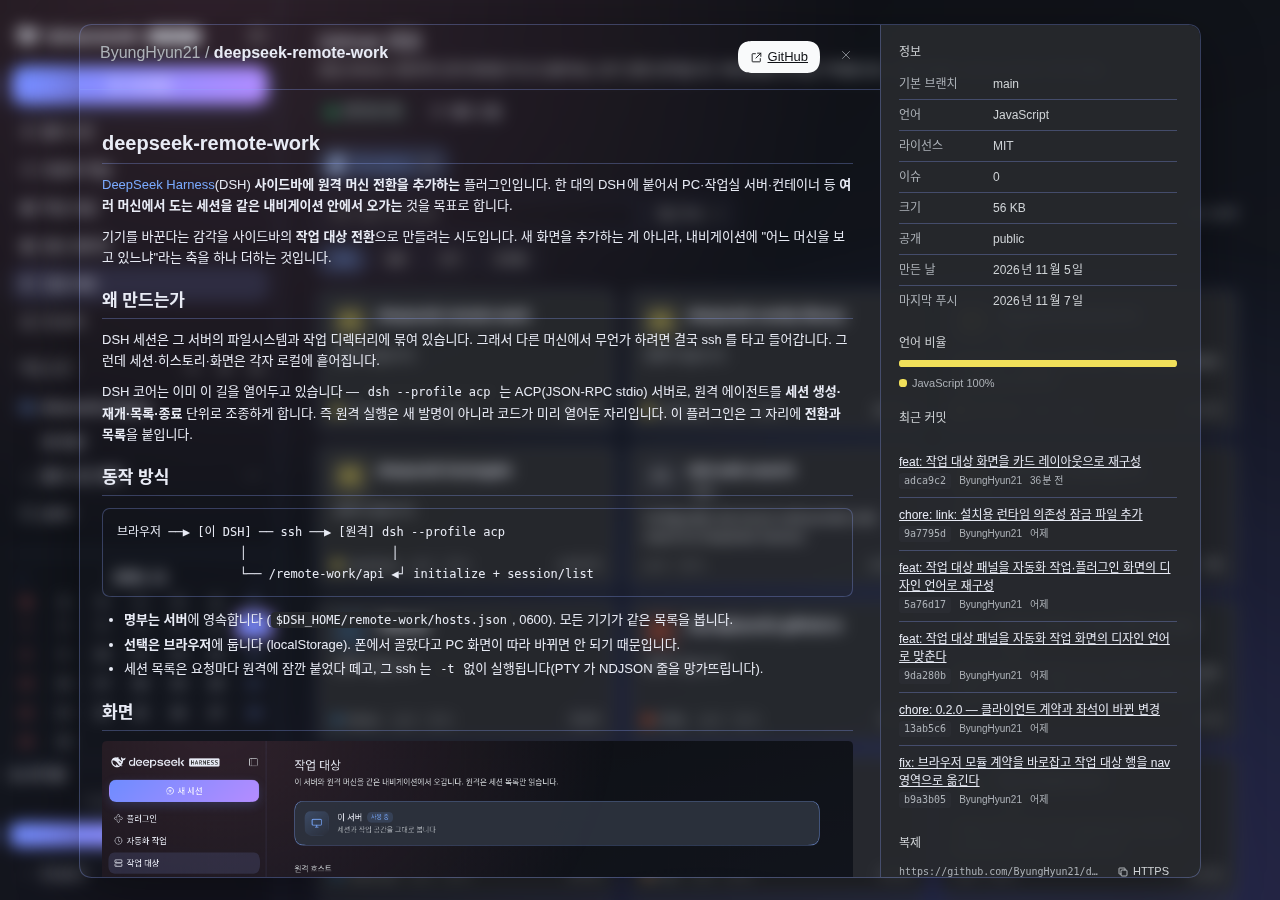
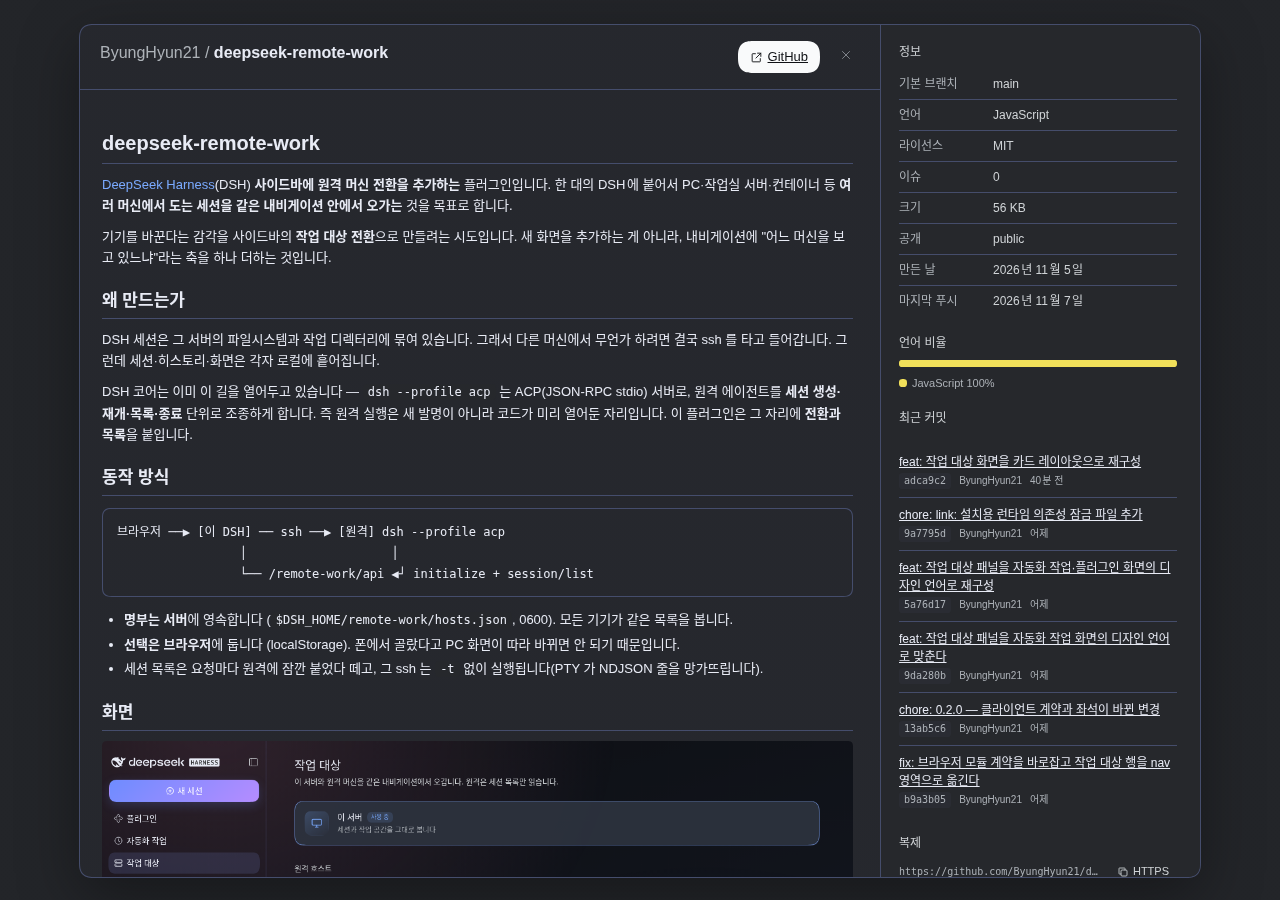
fix: 팝업 배경을 불투명하게 해 뒤 화면이 비치지 않게 한다

diff --git a/lib/client.js b/lib/client.js
@@ -99,8 +99,8 @@ const CSS = [
   ".dsgh-empty span{display:block;max-width:560px;margin:0 auto;line-height:20px}",
   ".dsgh-foot{color:var(--dsw-alias-label-caption);font-size:11px;line-height:18px;margin-top:16px}",
   ".dsgh-detail{position:fixed;inset:0;z-index:60;display:grid;place-items:center;padding:24px}",
-  ".dsgh-detailBackdrop{position:absolute;inset:0;border:0;padding:0;background:color-mix(in srgb,var(--dsw-alias-bg-base) 82%,transparent);backdrop-filter:blur(8px);cursor:zoom-out}",
-  ".dsgh-detailPanel{position:relative;z-index:1;display:grid;grid-template-columns:minmax(0,1fr) 320px;width:min(1120px,100%);height:calc(100vh - 48px);max-height:calc(100vh - 48px);border:.5px solid var(--dsw-alias-border-l3);border-radius:16px;overflow:hidden;background:var(--dsw-specific-sidebar-fill);box-shadow:0 18px 60px rgba(0,0,0,.35)}",
+  ".dsgh-detailBackdrop{position:absolute;inset:0;border:0;padding:0;background:linear-gradient(var(--dsw-alias-bg-layer-1),var(--dsw-alias-bg-layer-1)),linear-gradient(var(--dsw-alias-bg-layer-1),var(--dsw-alias-bg-layer-1)),linear-gradient(var(--dsw-alias-bg-layer-1),var(--dsw-alias-bg-layer-1));cursor:zoom-out}",
+  ".dsgh-detailPanel{position:relative;z-index:1;display:grid;grid-template-columns:minmax(0,1fr) 320px;width:min(1120px,100%);height:calc(100vh - 48px);max-height:calc(100vh - 48px);border:.5px solid var(--dsw-alias-border-l3);border-radius:16px;overflow:hidden;background:linear-gradient(var(--dsw-alias-bg-layer-2),var(--dsw-alias-bg-layer-2)),linear-gradient(var(--dsw-alias-bg-layer-2),var(--dsw-alias-bg-layer-2)),linear-gradient(var(--dsw-alias-bg-layer-2),var(--dsw-alias-bg-layer-2));box-shadow:0 18px 60px rgba(0,0,0,.35)}",
   "@media (max-width:900px){.dsgh-detail{padding:10px}.dsgh-detailPanel{grid-template-columns:minmax(0,1fr);height:calc(100vh - 20px);max-height:calc(100vh - 20px)}}",
   ".dsgh-detailMain{display:flex;flex-direction:column;min-width:0;min-height:0}",
   ".dsgh-detailHead{display:flex;align-items:flex-start;gap:12px;padding:16px 20px;border-bottom:.5px solid var(--dsw-alias-border-l3)}",
